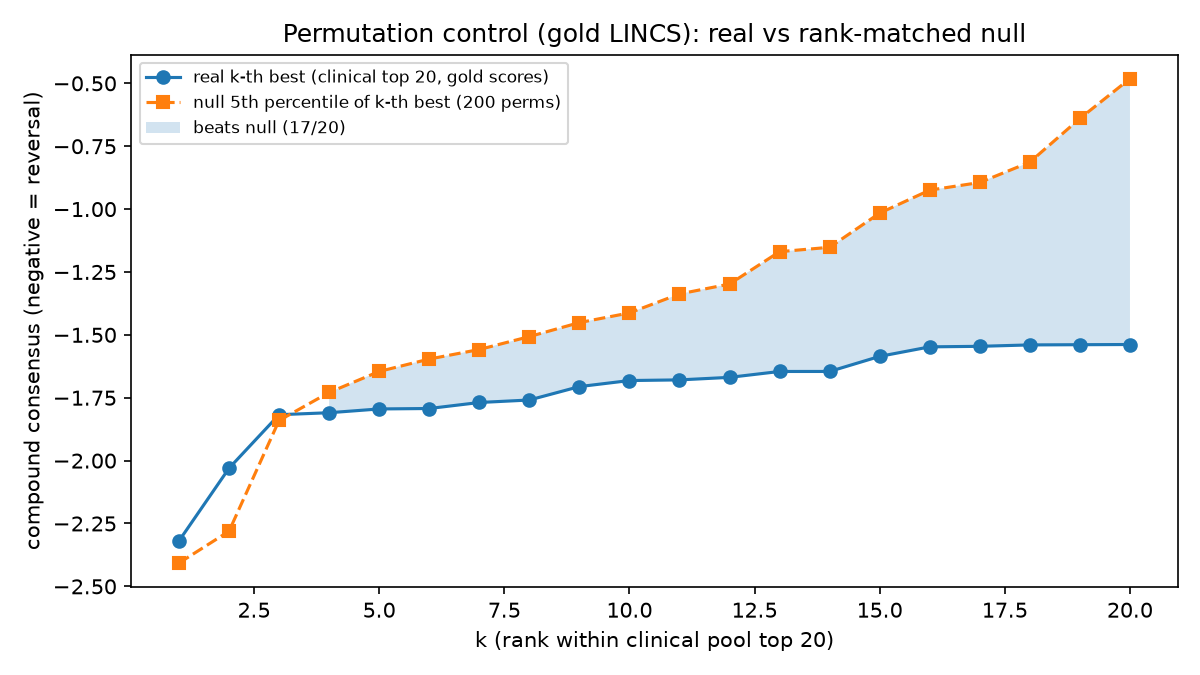
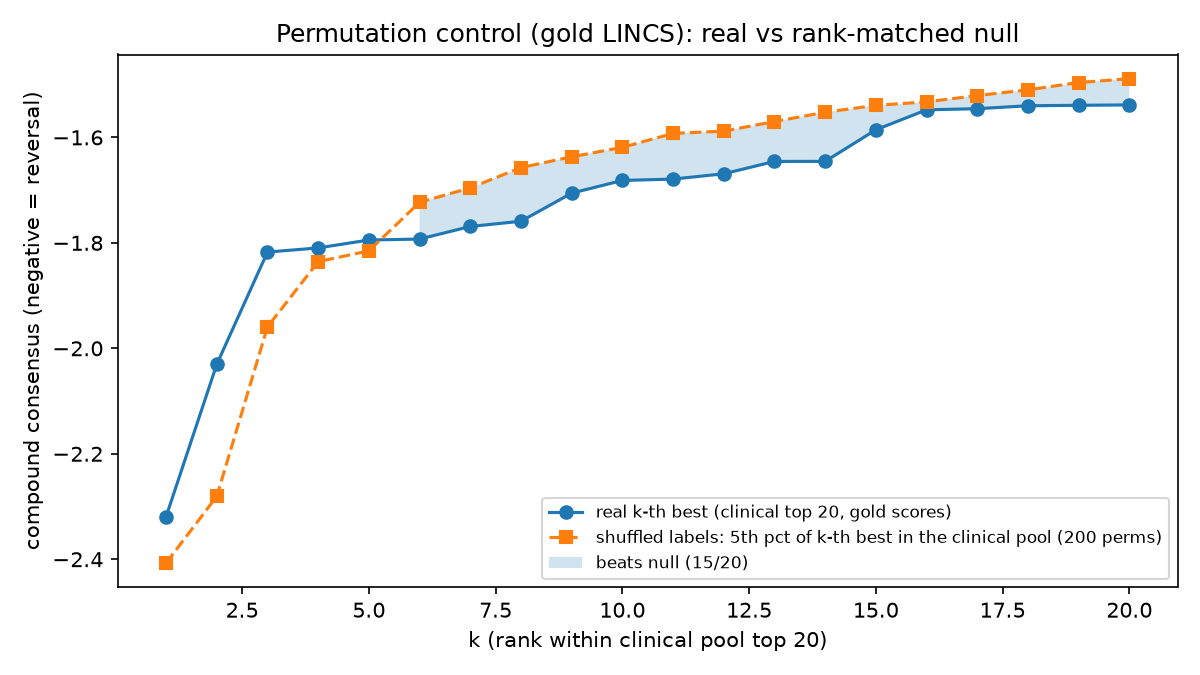
Reproducible permutation report; integrity log states exact definitions; guard fails closed outside git
The deck figure and the log now use one selection-aware definition
(pipelines.lincs.permutation_report). WS8's reconcile test passes on it.

diff --git a/pipelines/lincs/permutation_report.py b/pipelines/lincs/permutation_report.py
@@ -1,0 +1,73 @@
+"""Permutation-control numbers quoted in docs/integrity_log.md, computed one way, from saved files.
+
+For a permutation-control run (scores/{run}__compound_ranking + __permutation_null) and a scope
+(all ranked compounds, or the clinical-stage pool = drug_map stage_num >= PHASE_1):
+
+- compound p_perm: for each of the scope's top 20, p = (1 + #perms where that compound's null
+  consensus <= its real consensus) / (1 + n_perms); count p < 0.05.
+- selection-aware rank-matched check: for k = 1..20, compare the scope's real k-th best consensus
+  with the 5th percentile, across permutations, of the k-th best consensus among ALL compounds in
+  the scope. This asks whether shuffled labels would produce top scores this extreme anywhere in
+  the pool, which accounts for picking the top 20 out of the whole pool.
+
+Usage: uv run python -m pipelines.lincs.permutation_report
+"""
+
+from __future__ import annotations
+
+import numpy as np
+import pandas as pd
+
+from pipelines.common.paths import PROCESSED
+
+RUNS = ("GSE132903__permctl", "GSE132903__gold_permctl")  # all signatures, gold only
+TOP = 20
+
+
+def scope_frames(run: str, scope: str) -> tuple[pd.DataFrame, pd.DataFrame]:
+    ranking = pd.read_parquet(PROCESSED / "scores" / f"{run}__compound_ranking.parquet")
+    null = pd.read_parquet(PROCESSED / "scores" / f"{run}__permutation_null.parquet")
+    if scope == "clinical":
+        dm = pd.read_parquet(PROCESSED / "evidence" / "drug_map.parquet", columns=["pert_id", "stage_num"])
+        ranking = ranking.merge(dm, on="pert_id").query("stage_num >= 3")
+    elif scope != "all":
+        raise ValueError(scope)
+    return ranking.sort_values("rank").reset_index(drop=True), null
+
+
+def rank_matched_curve(run: str, scope: str) -> tuple[np.ndarray, np.ndarray]:
+    """(real k-th best, null 5th percentile of the k-th best over the whole scope), k = 1..20."""
+    ranking, null = scope_frames(run, scope)
+    pool_null = null[null["pert_id"].isin(ranking["pert_id"])]
+    kth = np.vstack(pool_null.groupby("perm_id")["consensus_median"]
+                    .apply(lambda x: np.sort(x.to_numpy())[:TOP]).to_numpy())
+    return ranking["consensus_median"].to_numpy()[:TOP], np.quantile(kth, 0.05, axis=0)
+
+
+def control_numbers(run: str, scope: str) -> dict:
+    ranking, null = scope_frames(run, scope)
+    top = ranking.head(TOP)[["pert_id", "consensus_median"]]
+    n_perms = null["perm_id"].nunique()
+    nn = null[null["pert_id"].isin(top["pert_id"])].merge(
+        top.rename(columns={"consensus_median": "real"}), on="pert_id")
+    hits = nn.assign(hit=nn["consensus_median"] <= nn["real"]).groupby("pert_id")["hit"].sum()
+    p_perm = (hits + 1) / (n_perms + 1)
+    pool_null = null[null["pert_id"].isin(ranking["pert_id"])]
+    kth = np.vstack(pool_null.groupby("perm_id")["consensus_median"]
+                    .apply(lambda x: np.sort(x.to_numpy())[:TOP]).to_numpy())
+    q05 = np.quantile(kth, 0.05, axis=0)
+    real = top["consensus_median"].to_numpy()
+    return {"run": run, "scope": scope, "n_scope": len(ranking), "n_perms": int(n_perms),
+            "top20_p_lt_0.05": int((p_perm < 0.05).sum()),
+            "rank_matched_beats_null": int((real < q05).sum()),
+            "real_best": float(real[0]), "null_best_median": float(np.median(kth[:, 0])),
+            "null_best_p05": float(q05[0])}
+
+
+def main() -> None:
+    rows = [control_numbers(run, scope) for run in RUNS for scope in ("all", "clinical")]
+    print(pd.DataFrame(rows).round(3).to_string(index=False))
+
+
+if __name__ == "__main__":
+    main()

diff --git a/tests/permutation/test_permctl_report.py b/tests/permutation/test_permctl_report.py
@@ -6,8 +6,8 @@ k=1..20, both scoped to the clinical pool top 20). Saves the deck plot to
 ``docs/figures/permutation_control.png``.
 
 The integrity log cites 17/20 and 15/20; the ``test_log_numbers_reconcile``
-test below locks that claim and is expected to fail (xfail) until the lead
-reconciles the log with the current files.
+test below checks that claim against pipelines.lincs.permutation_report, which
+uses the selection-aware definition stated in the log.
 """
 
 from __future__ import annotations
@@ -20,7 +20,6 @@ import matplotlib
 matplotlib.use("Agg")
 import matplotlib.pyplot as plt  # noqa: E402
 import numpy as np
-import pytest
 
 from tests.leakage._paths import (
     GOLD_NULL,
@@ -77,7 +76,9 @@ def test_permutation_control_report_and_plot() -> None:
     null, summ, gold_rank, pool = _load()
     clin_ids = pool.sort_values("pool_rank")["pert_id"].tolist()
     assert null["perm_id"].nunique() == 200
-    real, q5 = _rank_matched(null, gold_rank, clin_ids)
+    from pipelines.lincs.permutation_report import rank_matched_curve
+
+    real, q5 = rank_matched_curve("GSE132903__gold_permctl", "clinical")  # selection-aware, whole pool
     beats = int((real < q5).sum())
     print(f"\nclinical pool top 20 rank-matched beats (gold): {beats}/20")
     pmap = dict(zip(summ["pert_id"], summ["p_perm"], strict=True))
@@ -90,7 +91,7 @@ def test_permutation_control_report_and_plot() -> None:
     k = np.arange(1, len(real) + 1)
     plt.figure(figsize=(8, 4.5))
     plt.plot(k, real, "o-", label="real k-th best (clinical top 20, gold scores)")
-    plt.plot(k, q5, "s--", label="null 5th percentile of k-th best (200 perms)")
+    plt.plot(k, q5, "s--", label="shuffled labels: 5th pct of k-th best in the clinical pool (200 perms)")
     plt.fill_between(k, q5, real, where=(real < q5), alpha=0.2, label=f"beats null ({beats}/20)")
     plt.xlabel("k (rank within clinical pool top 20)")
     plt.ylabel("compound consensus (negative = reversal)")
@@ -103,15 +104,12 @@ def test_permutation_control_report_and_plot() -> None:
     assert beats >= 1, "real top candidates must beat the rank-matched null somewhere"
 
 
-@pytest.mark.xfail(
-    strict=True,
-    reason="integrity log row 8 cites 17/20 and 15/20; current gold files give "
-    "16/20 (full top-20 p<0.05) and 17/20 (clinical-scoped rank-matched). Lead to reconcile.",
-)
 def test_log_numbers_reconcile() -> None:
-    null, summ, gold_rank, pool = _load()
-    strict_gate = int((summ.head(20)["p_perm"] < 0.05).sum())
-    clin_ids = pool.sort_values("pool_rank")["pert_id"].tolist()
-    real, q5 = _rank_matched(null, gold_rank, clin_ids)
-    assert strict_gate == 17, f"strict gate (gold full top 20 p<0.05): {strict_gate}/20, log says 17/20"
-    assert int((real < q5).sum()) == 15, "rank-matched: log says 15/20"
+    """docs/integrity_log.md quotes pipelines.lincs.permutation_report; the numbers must reproduce."""
+    from pipelines.lincs.permutation_report import control_numbers
+
+    require(GOLD_NULL, GOLD_RANKING, "evidence/drug_map.parquet")
+    gold = control_numbers("GSE132903__gold_permctl", "clinical")
+    assert (gold["top20_p_lt_0.05"], gold["rank_matched_beats_null"]) == (17, 15)
+    allsig = control_numbers("GSE132903__permctl", "clinical")
+    assert (allsig["top20_p_lt_0.05"], allsig["rank_matched_beats_null"]) == (14, 0)

diff --git a/pipelines/tauchstone/truth_table.py b/pipelines/tauchstone/truth_table.py
@@ -663,8 +663,11 @@ def prereg_guard() -> tuple[str, str]:
             f"refusing: {prereg} status is {status!r}, expected 'frozen'. "
             "Freeze the preregistration and commit it before running the benchmark."
         )
-    repo = Path(subprocess.run(["git", "rev-parse", "--show-toplevel"], cwd=prereg.parent,
-                               check=True, capture_output=True, text=True).stdout.strip())
+    try:
+        repo = Path(subprocess.run(["git", "rev-parse", "--show-toplevel"], cwd=prereg.parent,
+                                   check=True, capture_output=True, text=True).stdout.strip())
+    except (OSError, subprocess.CalledProcessError) as e:
+        raise SystemExit(f"refusing: cannot verify {prereg} is committed (not a git checkout?)") from e
     try:
         rel = str(prereg.relative_to(repo))
         subprocess.run(

diff --git a/docs/integrity_log.md b/docs/integrity_log.md
@@ -13,7 +13,7 @@ preregistration was frozen.
 | 5 | first ranking | Top 30: 23 unnamed screening compounds | Candidate pool = clinical stage ≥ phase 1 (Open Targets 26.09) | ranking only, no hidden outcome | the person |
 | 6 | GSE173955 | 98% of genes "down in AD" (TPM compositional artifact) | Quantile-normalize log2(TPM+1). Its FDR genes fell from 2,182 to 0 | signature only | lead (bug fix) |
 | 7 | after #6 | FDR gate would remove every held-out cohort | Gate = Spearman ρ ≥ 0.2 with the primary (GSE173955 0.50 in, GSE53697 out) | signatures only | the person |
-| 8 | permutation control | All signatures: 0/20 of the clinical pool top 20 beat the rank-matched shuffled-label null | Gold LINCS signatures only (15/20 beat it). Neither passes the strict "all 20 at p < 0.05" gate (14/20 vs 17/20); reported as is | ranking and permutation null only | the person |
+| 8 | permutation control | All signatures: 0/20 of the clinical pool's top 20 beat the selection-aware rank-matched null | Gold LINCS signatures only (15/20 beat it). Neither passes the strict "all top 20 at p < 0.05" gate. See "Permutation control numbers" below for exact definitions | ranking and permutation null only | the person |
 | 9 | development pool | Claim held for 4% of development drugs, 0% undecided before testing | Survive = top 25% / θ at the 25th null percentile, q = 0.7 (no-effect claim rate ≈ 5%) | development pool only (pool ranks 51–100) | the person |
 | 10 | development pool | — | λ = 0.5, λ_lookahead = 0, type priors from development survive rates | development pool only | rule in spec |
 | 11 | freeze | — | `preregistration.yaml` frozen, sha256 `21f7460e…bb8a3`, commit `8ed0885` | — | the person |
@@ -28,3 +28,25 @@ preregistration was frozen.
   - decision accuracy after 5 tests: 1.00, vs random 0.88 and greedy 0.80
   - ties max_failure and max_uncertainty
 - **decision_lookahead_hybrid (co-primary):** better than greedy (p = 0.004), not better than random (p = 0.25), accuracy 0.87. It led on the development pool but did not hold up on the sealed pool. Reported as is.
+
+## Permutation control numbers
+
+Produced by `uv run python -m pipelines.lincs.permutation_report` from the saved permutation
+files (200 label permutations of GSE132903, seed 20261105).
+
+- **Compound p_perm:** for each of the scope's top 20 compounds,
+  p = (1 + #permutations where that compound's null consensus ≤ its real consensus) / 201.
+- **Selection-aware rank-matched check:** for k = 1..20, the real k-th best consensus is compared
+  with the 5th percentile, across permutations, of the k-th best consensus among *all* compounds in
+  the scope. This asks whether shuffled labels would produce top scores this extreme anywhere in the
+  pool, which accounts for choosing the top 20 out of thousands. (A weaker variant compares the same
+  20 compounds with their own null values; it is not the one quoted here.)
+
+| run | scope | compounds | top 20 with p_perm < 0.05 | top 20 beating rank-matched null |
+|---|---|---|---|---|
+| all signatures | all ranked | 16,482 | 18/20 | 0/20 |
+| all signatures | clinical pool | 2,508 | 14/20 | 0/20 |
+| **gold only (used)** | all ranked | 5,690 | 16/20 | 16/20 |
+| **gold only (used)** | **clinical pool** | **1,816** | **17/20** | **15/20** |
+
+The preregistered gate ("every top-20 compound at p < 0.05") is not met in any row.
